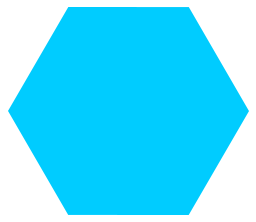
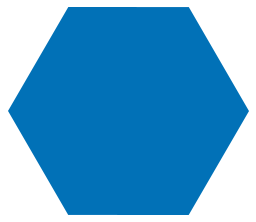
Changement des couleurs des joueurs ainsi que des WaterCells

diff --git a/core/assets/worlds/hex.tsx b/core/assets/worlds/hex.tsx
@@ -1,12 +1,12 @@
 <?xml version="1.0" encoding="UTF-8"?>
-<tileset version="1.2" tiledversion="1.2.2" name="hex" tilewidth="256" tileheight="222" tilecount="6" columns="0">
+<tileset version="1.2" tiledversion="1.2.2" name="hex" tilewidth="256" tileheight="222" tilecount="8" columns="0">
  <grid orientation="orthogonal" width="1" height="1"/>
  <tile id="0">
   <properties>
    <property name="available" type="bool" value="true"/>
    <property name="player" type="int" value="1"/>
   </properties>
-  <image width="256" height="222" source="hex_blue.png"/>
+  <image width="256" height="222" source="hex_green.png"/>
  </tile>
  <tile id="1">
   <properties>
@@ -27,7 +27,7 @@
    <property name="available" type="bool" value="true"/>
    <property name="player" type="int" value="1"/>
   </properties>
-  <image width="256" height="222" source="hex_blue_selected.png"/>
+  <image width="256" height="222" source="hex_green.png"/>
  </tile>
  <tile id="4">
   <properties>
@@ -42,5 +42,15 @@
    <property name="player" type="int" value="0"/>
   </properties>
   <image width="256" height="222" source="hex_neutral_selectedpng.png"/>
+ </tile>
+ <tile id="6">
+  <properties>
+   <property name="available" type="bool" value="false"/>
+   <property name="player" type="int" value="0"/>
+  </properties>
+  <image width="256" height="222" source="hex_blue.png"/>
+ </tile>
+ <tile id="7">
+  <image width="256" height="222" source="hex_blue_selected.png"/>
  </tile>
 </tileset>
